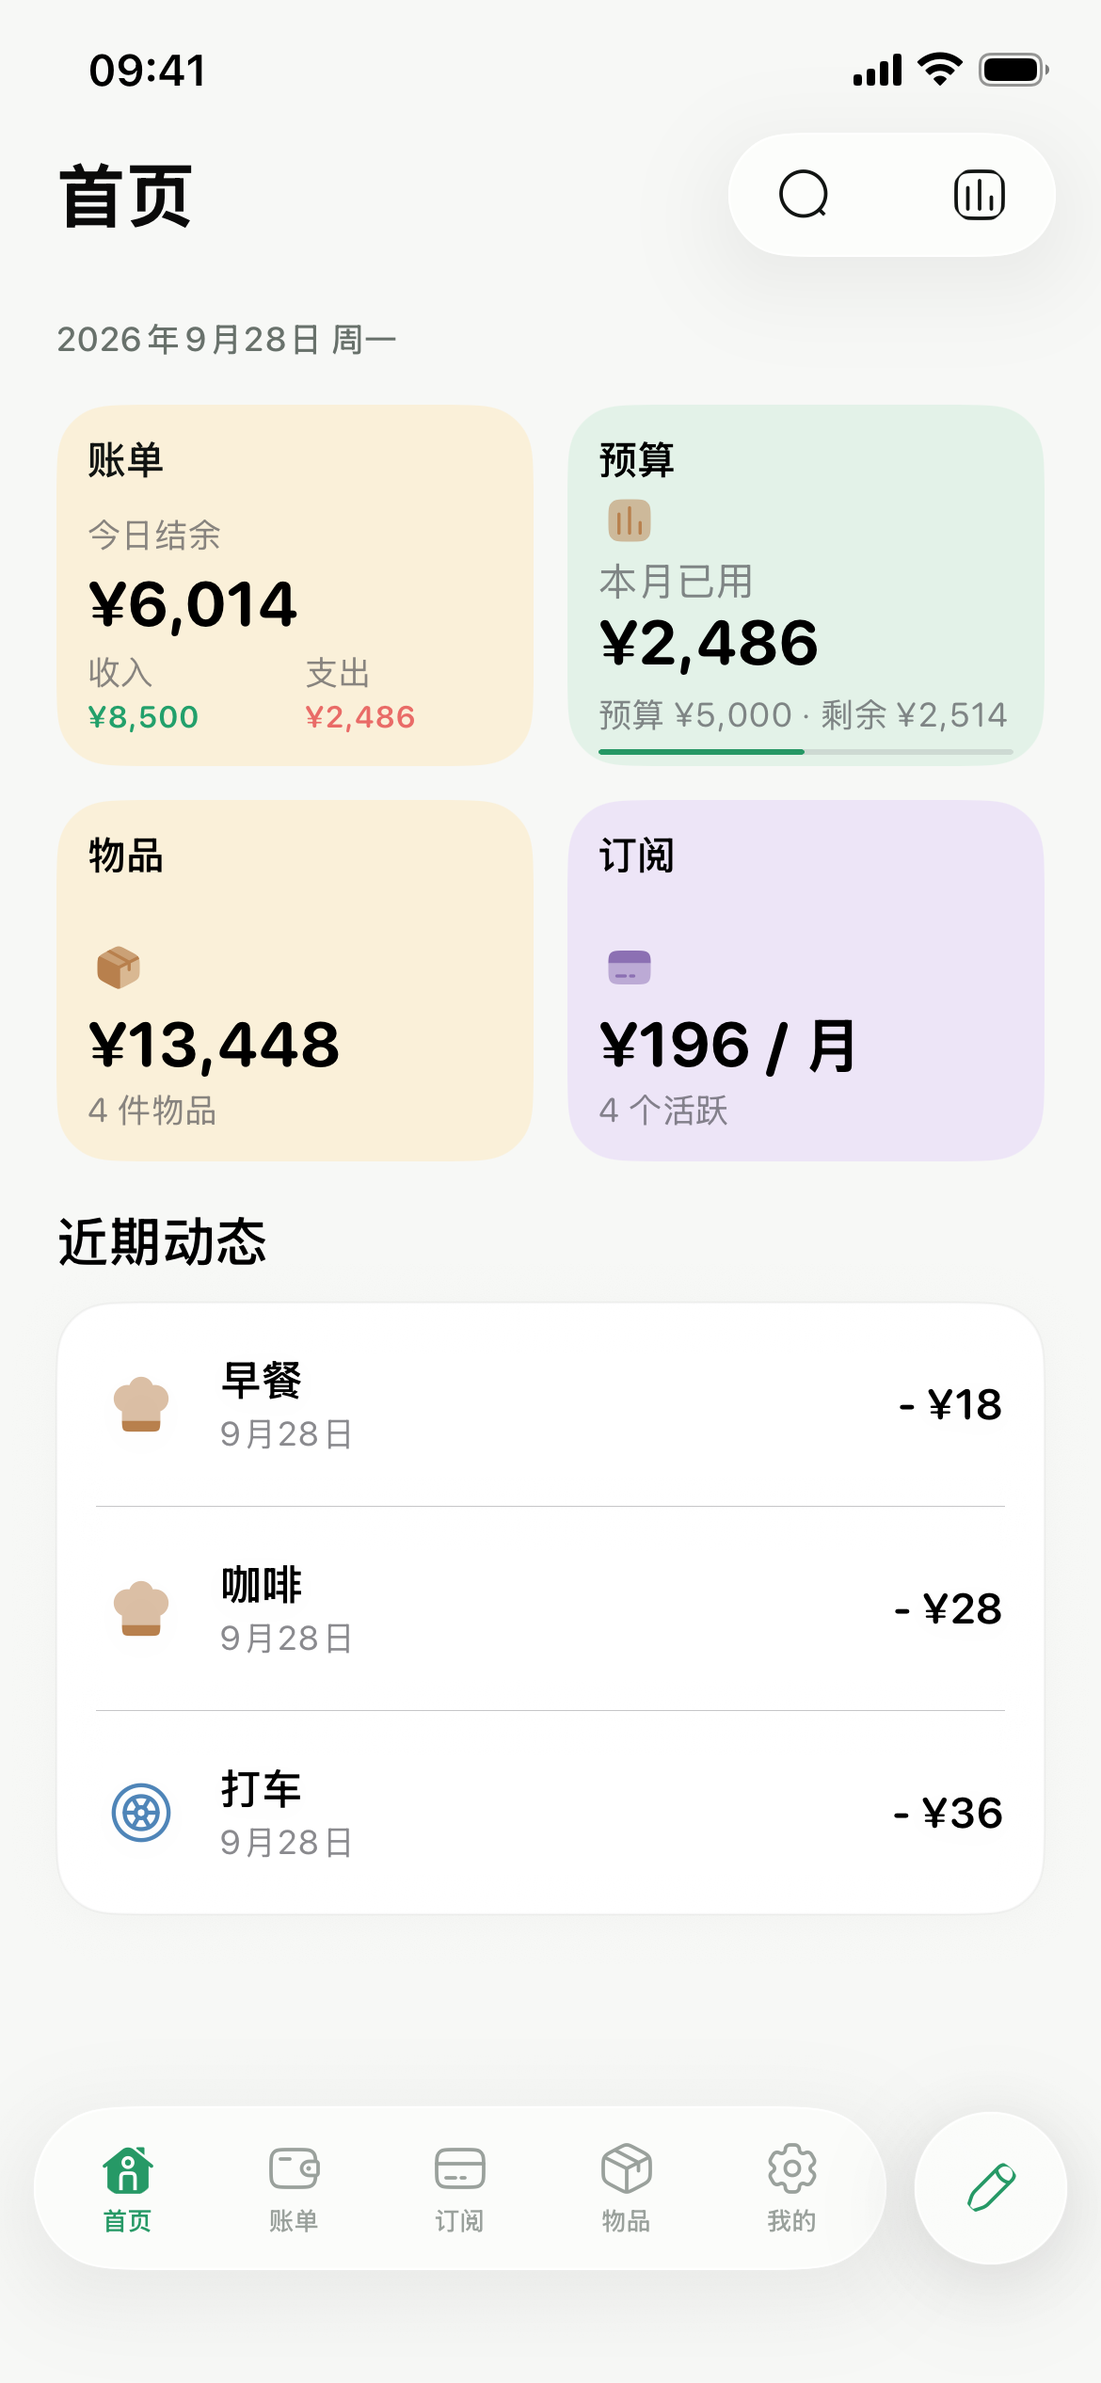
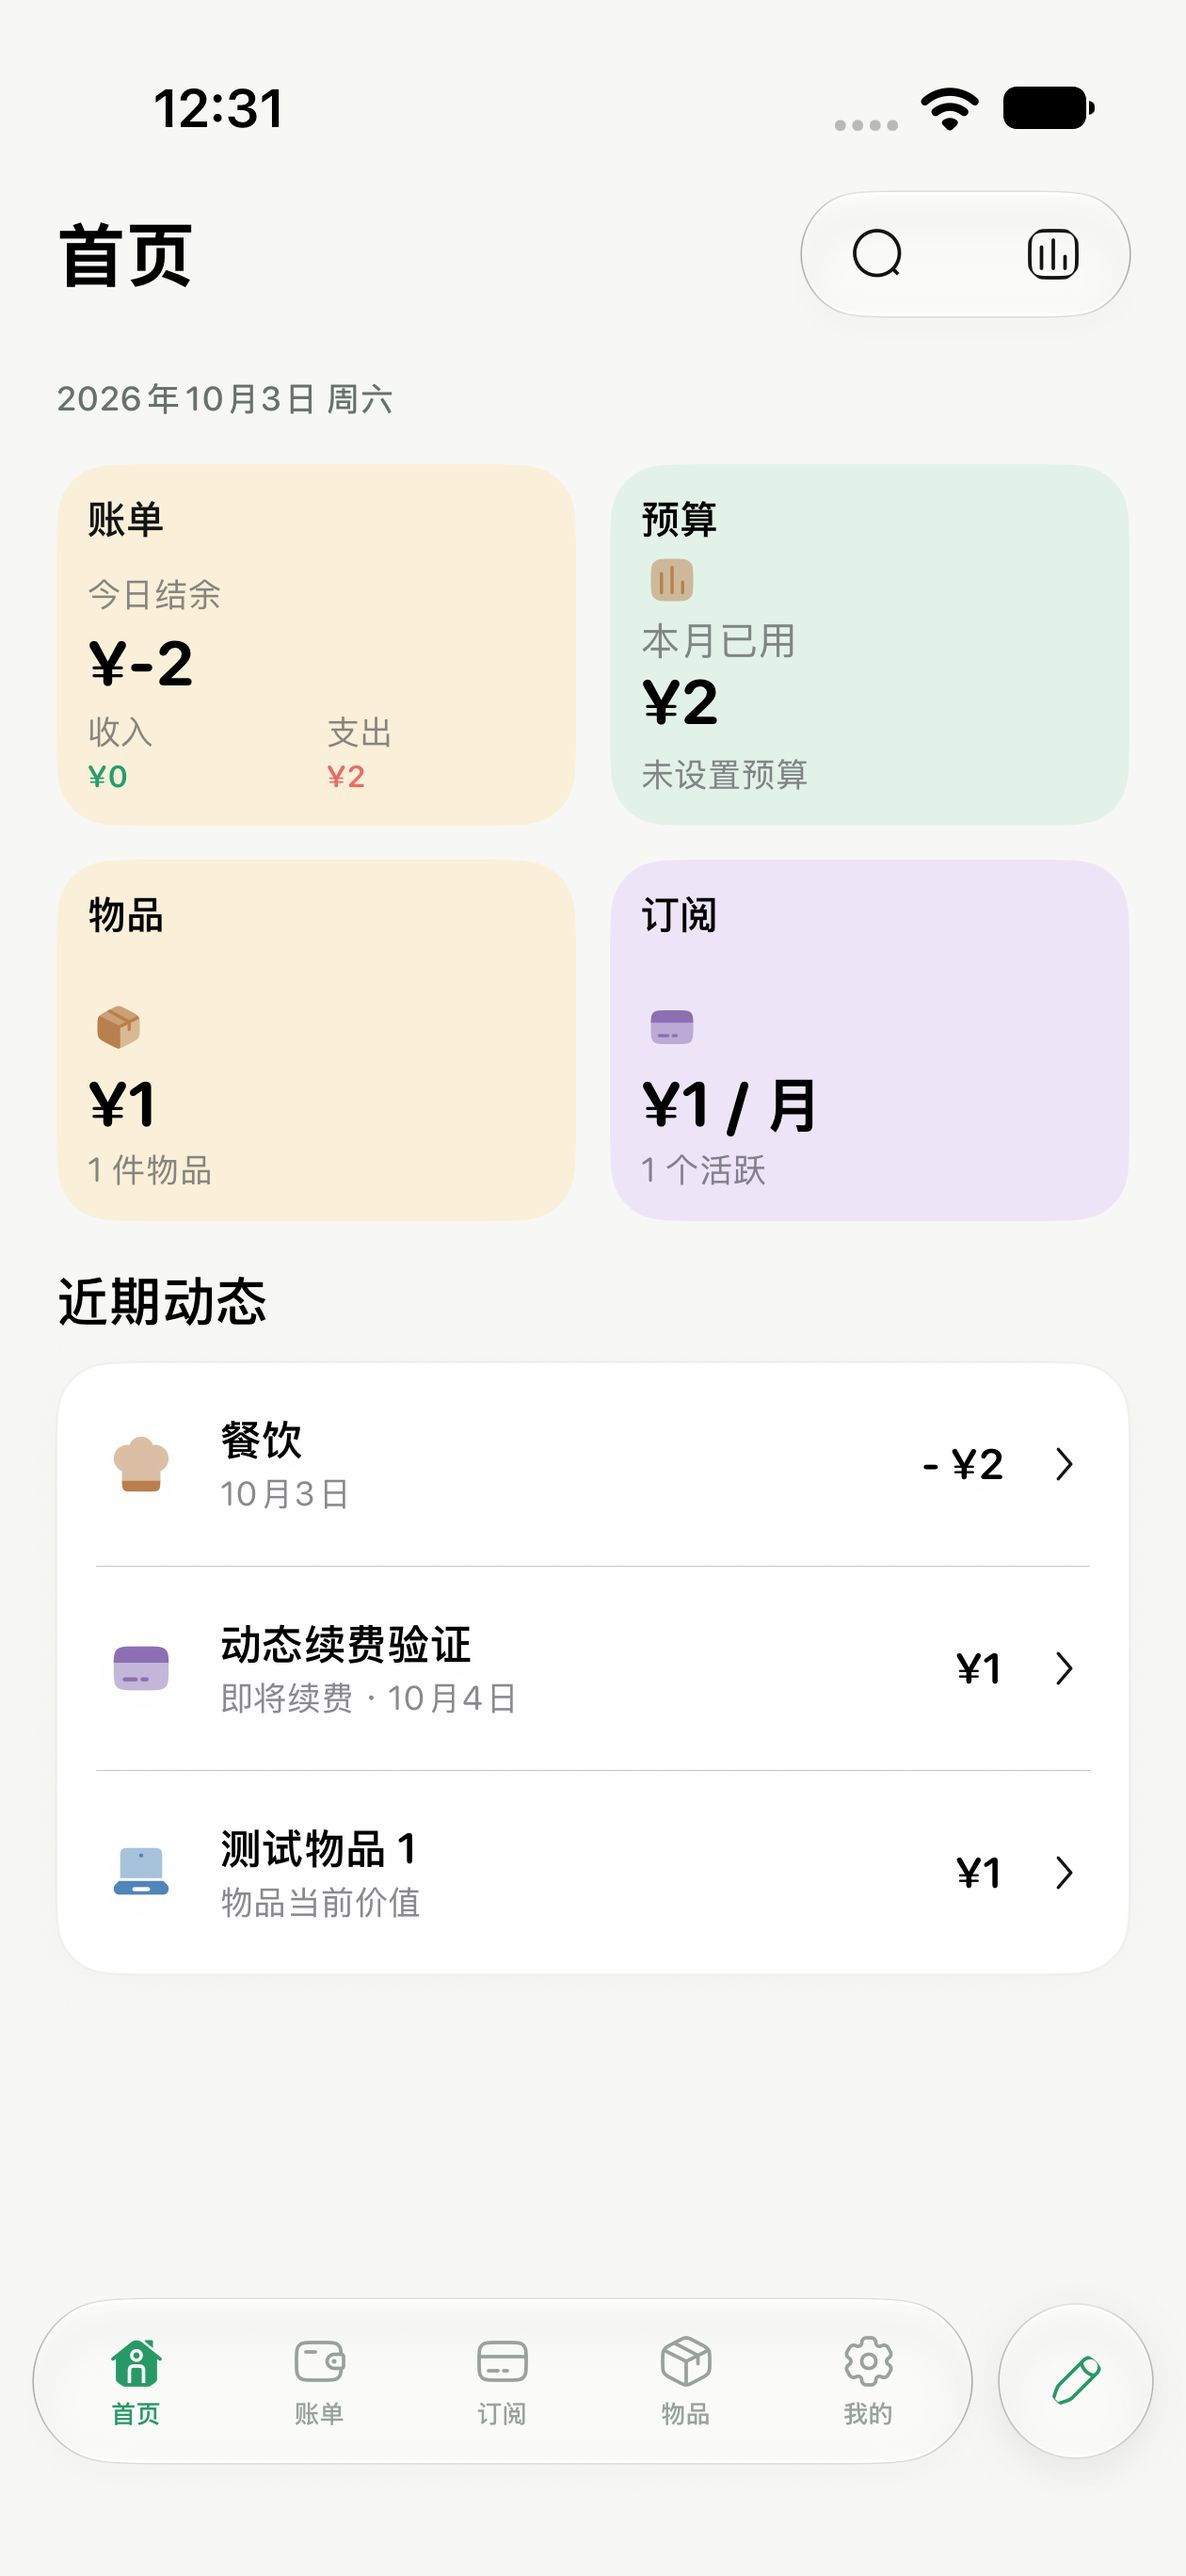
Release v1.2.0: document interactive recent activities

diff --git a/README.md b/README.md
@@ -74,12 +74,13 @@
 | 📍 位置 | 自定义放置位置 |
 | 📊 库存 | 数量、单位、最低库存与出入库流水 |
 | 🔗 关联 | Money 账单与 Things 物品关联 |
+| 🏠 首页动态 | 点击近期动态，跳转到账单、订阅或物品页面 |
 | 🌙 外观 | 浅色与深色模式 |
 | ℹ 关于 | 动态版本号、App 介绍与 GitHub 链接 |
 
 ## 下载
 
-当前版本：**Trio v1.1.0（Build 2）**
+当前版本：**Trio v1.2.0（Build 3）**
 
 ### [⬇ 下载最新 Trio IPA](https://github.com/rolandanan/Trio/releases/latest)
 

diff --git a/CHANGELOG.md b/CHANGELOG.md
@@ -1,5 +1,13 @@
 # 更新日志
 
+## v1.2.0 — 2026-10-03
+
+- 首页近期动态增加整行点击反馈和跳转：账单、订阅、物品分别打开对应页面。
+- 复用现有卡片按压效果，保持近期动态的排序和数据逻辑。
+- iPhone Air / iOS 27.0 模拟器验证三类动态跳转；真机体验仍待复测。
+
+此版本提供未签名 IPA（Build 3），需要自行签名安装。
+
 ## v1.1.0 — 2026-10-03
 
 - 优化物品卡片和列表的侧滑识别及取消处理，减少与上下滚动的手势冲突。
